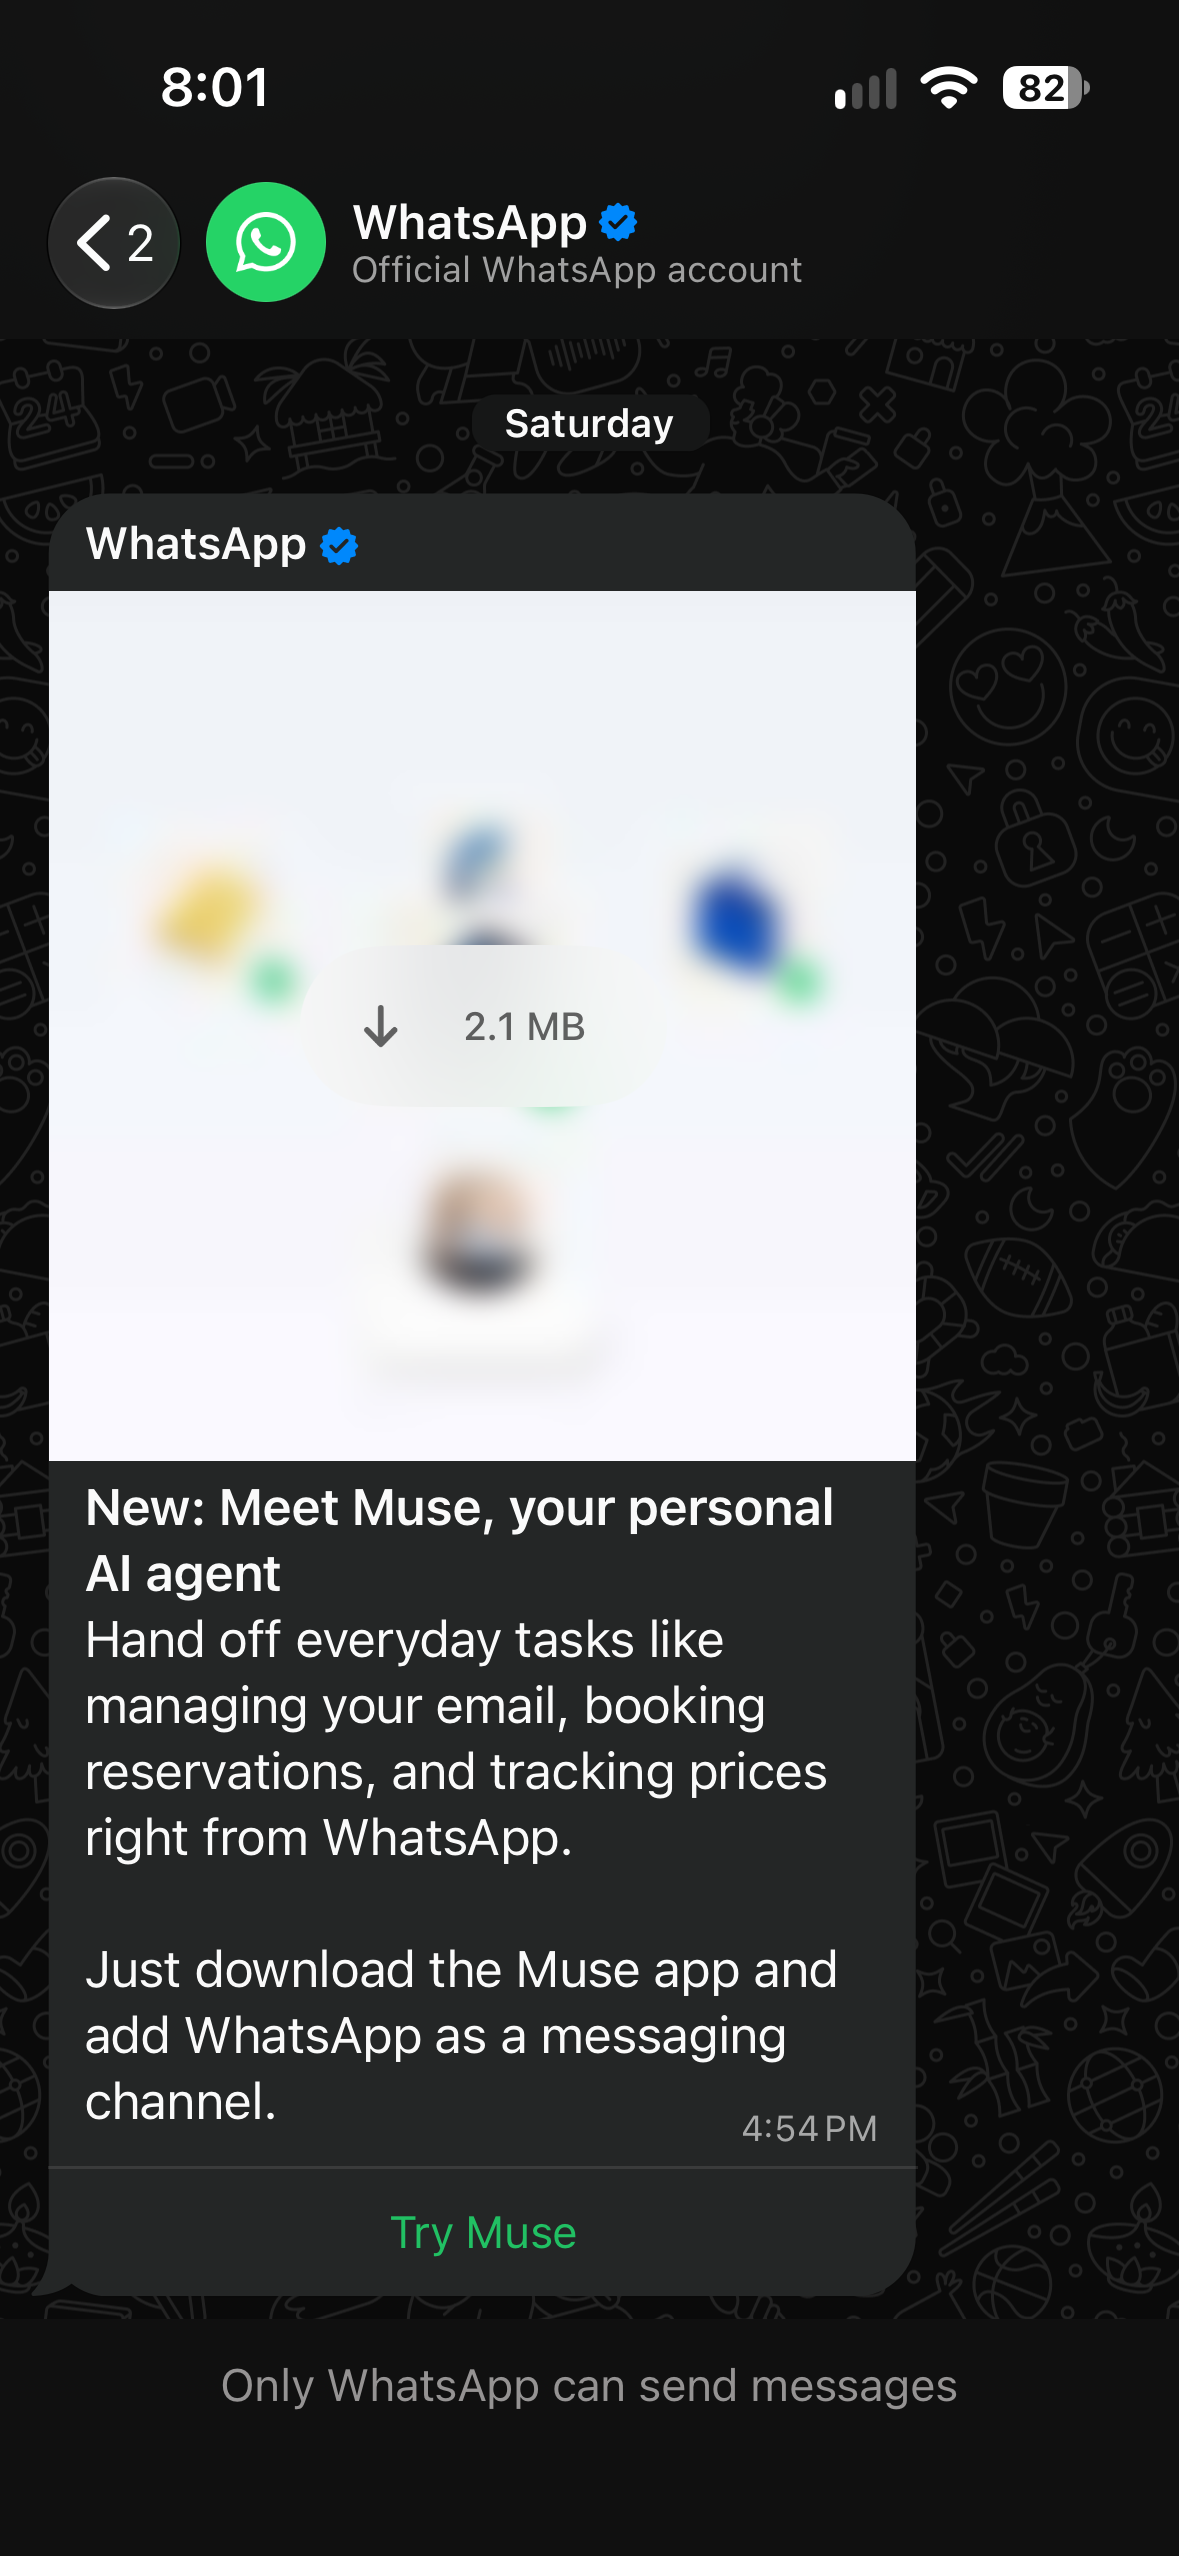
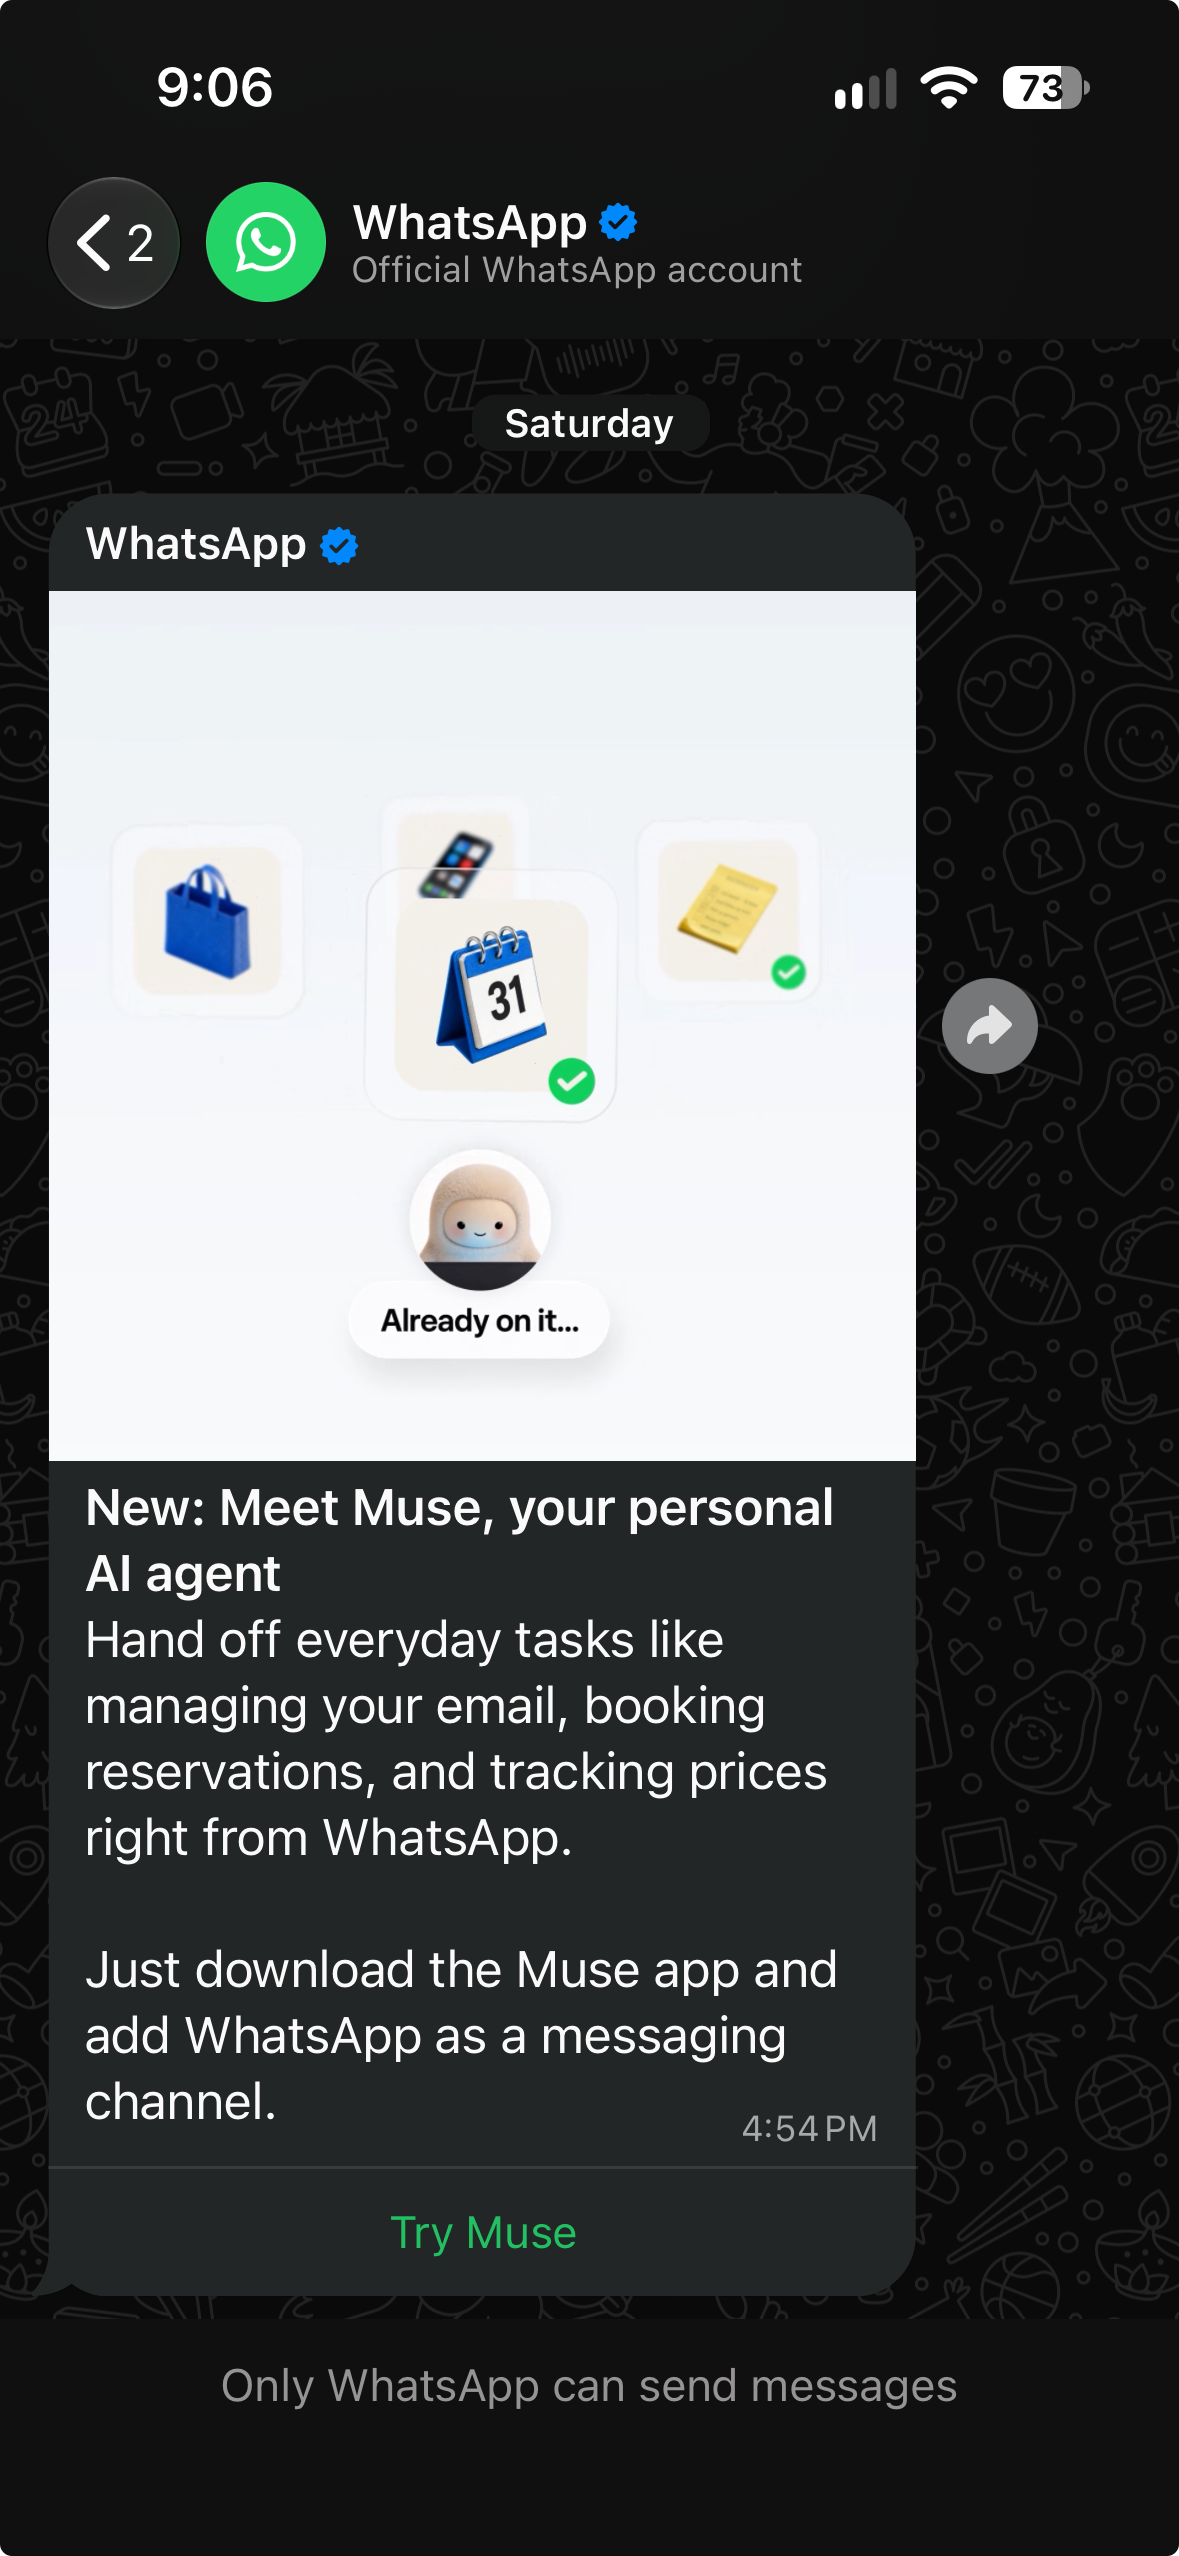
Move Muse announcement screenshot below CTA framework in case study

diff --git a/src/app/work/content/MuseWhatsAppContent.tsx b/src/app/work/content/MuseWhatsAppContent.tsx
@@ -47,15 +47,6 @@ export default function MuseWhatsAppContent() {
         adapting surrounding language to feel native to every product context, I
         led the content strategy across all key WhatsApp touchpoints.
       </p>
-      <div className="my-6 max-w-full">
-        <Image
-          src="/work/muse-whatsapp/muse-already-on-it.jpg"
-          alt="Muse says &quot;Already on it...&quot; beneath task cards for a calendar, shopping, a reminder list marked complete, and a phone"
-          width={1170}
-          height={1124}
-          className="rounded-lg border border-zinc-200 dark:border-zinc-800 w-full max-w-xl h-auto"
-        />
-      </div>
 
       <hr className="border-zinc-200 dark:border-zinc-800 my-8" />
 
@@ -128,6 +119,15 @@ export default function MuseWhatsAppContent() {
           immediate, in-context message surfaces)
         </li>
       </ul>
+      <div className="my-6 max-w-full">
+        <Image
+          src="/work/muse-whatsapp/muse-announcement.png"
+          alt="WhatsApp announcement message: New: Meet Muse, your personal AI agent, with a Try Muse button"
+          width={1179}
+          height={2556}
+          className="rounded-lg border border-zinc-200 dark:border-zinc-800 w-full max-w-sm h-auto"
+        />
+      </div>
 
       <hr className="border-zinc-200 dark:border-zinc-800 my-8" />
 
